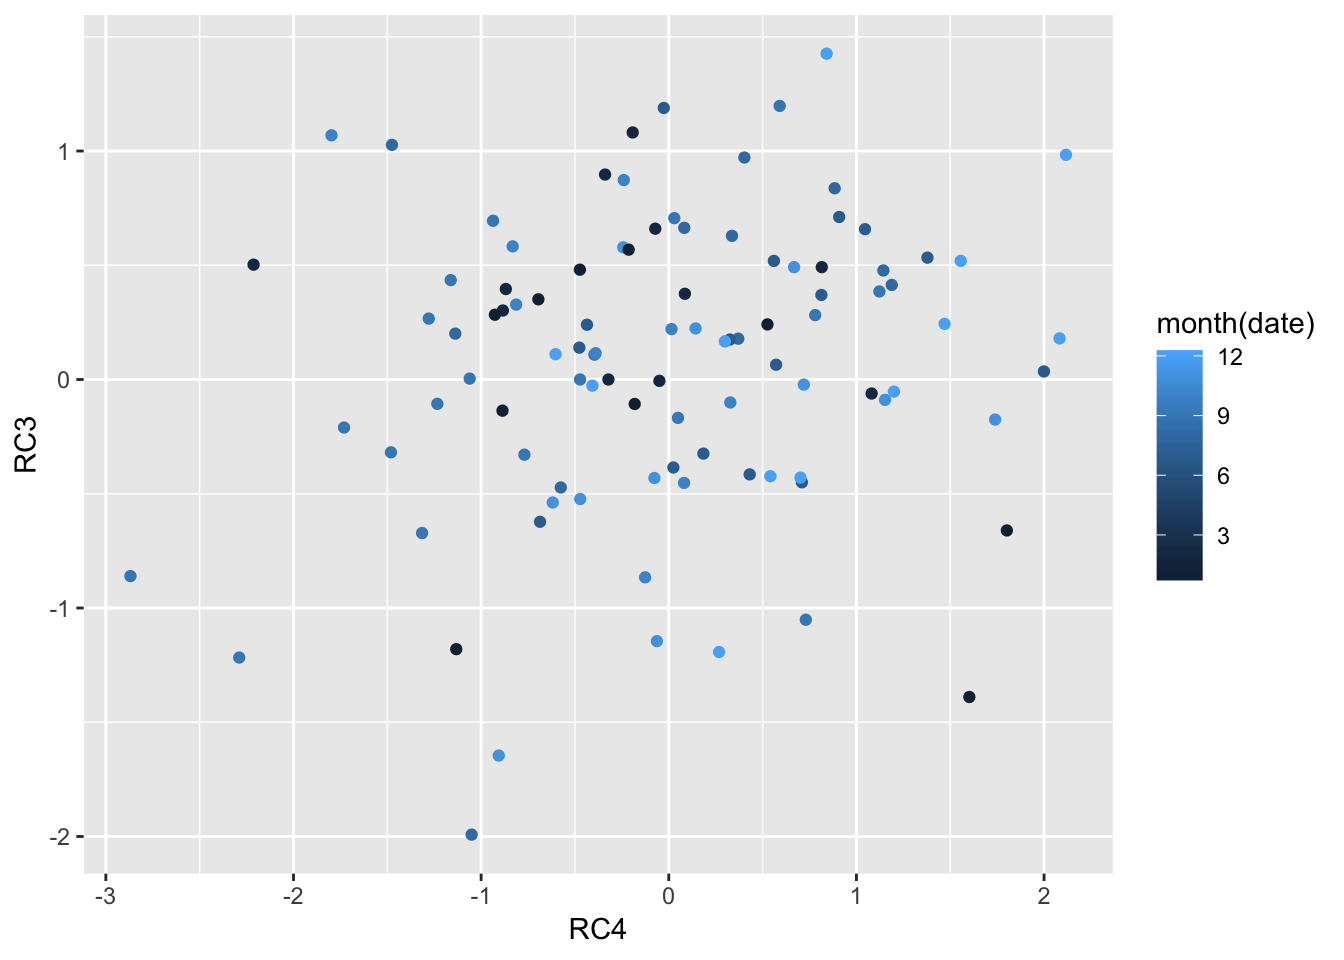
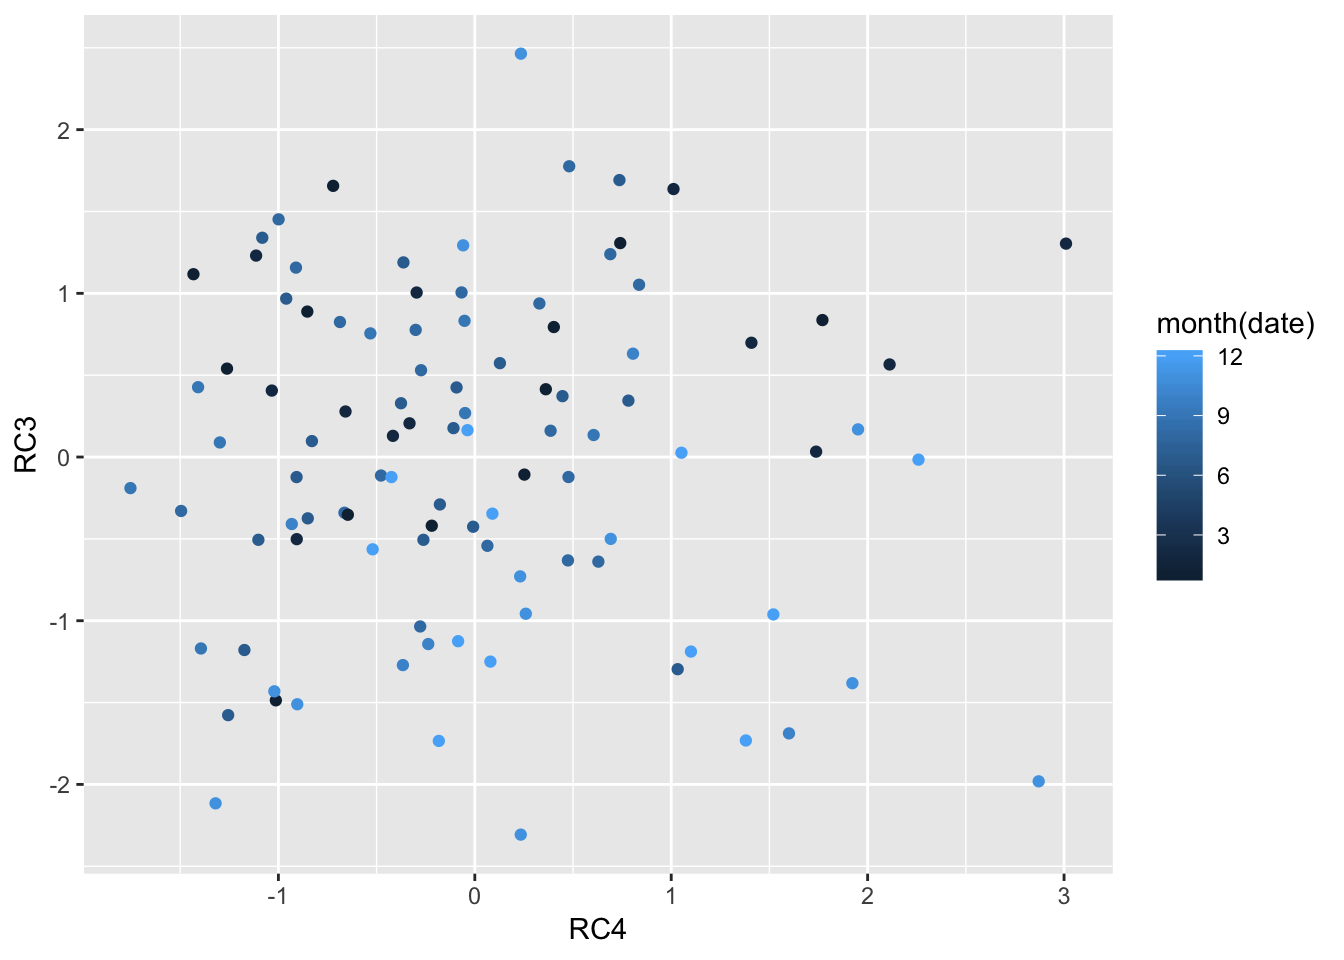
dimension reduction

diff --git a/_book/dimension-reduction.html b/_book/dimension-reduction.html
@@ -220,31 +220,31 @@ fa_daily_stats</code></pre></div>
 ## Call: principal(r = ., nfactors = 4, rotate = &quot;varimax&quot;)
 ## Standardized loadings (pattern matrix) based upon correlation matrix
 ##                        RC1   RC2   RC3   RC4   h2     u2 com
-## daily_rainfall_mm     0.98 -0.13 -0.10 -0.04 0.98 0.0190 1.1
-## 30min_rainfall_mm     0.97 -0.12 -0.11 -0.04 0.97 0.0324 1.1
-## 60min_rainfall_mm     0.98 -0.12 -0.11 -0.06 0.99 0.0140 1.1
-## 120min_rainfall_mm    0.93  0.01 -0.32 -0.06 0.97 0.0269 1.2
-## temp_mean_daily      -0.35  0.78  0.15 -0.04 0.76 0.2417 1.5
-## temp_daily_max       -0.13  0.23  0.85 -0.02 0.79 0.2084 1.2
-## temp_daily_min       -0.27 -0.04  0.86  0.02 0.82 0.1833 1.2
-## daily_tfc            -0.10 -0.05  0.00  0.99 1.00 0.0039 1.0
-## daily_wind_speed     -0.22  0.92 -0.13 -0.06 0.92 0.0792 1.2
-## daily_max_wind_speed  0.20  0.65  0.22  0.03 0.51 0.4881 1.4
+## daily_rainfall_mm     0.95 -0.22 -0.01 -0.06 0.96 0.0430 1.1
+## 30min_rainfall_mm     0.97 -0.17  0.01 -0.04 0.98 0.0207 1.1
+## 60min_rainfall_mm     0.98 -0.18  0.00 -0.07 0.99 0.0099 1.1
+## 120min_rainfall_mm    0.97 -0.19  0.00 -0.07 0.99 0.0140 1.1
+## temp_mean_daily      -0.21  0.92  0.12 -0.07 0.91 0.0862 1.1
+## temp_daily_max       -0.13  0.81  0.01  0.13 0.69 0.3144 1.1
+## temp_daily_min       -0.54  0.70  0.14 -0.04 0.80 0.2012 2.0
+## daily_tfc            -0.11  0.03 -0.02  0.99 0.99 0.0142 1.0
+## daily_wind_speed     -0.14  0.56  0.67 -0.03 0.79 0.2147 2.0
+## daily_max_wind_speed  0.07  0.00  0.94  0.00 0.88 0.1161 1.0
 ## 
 ##                        RC1  RC2  RC3  RC4
-## SS loadings           4.02 1.99 1.69 1.00
-## Proportion Var        0.40 0.20 0.17 0.10
-## Cumulative Var        0.40 0.60 0.77 0.87
-## Proportion Explained  0.46 0.23 0.19 0.11
-## Cumulative Proportion 0.46 0.69 0.89 1.00
+## SS loadings           4.14 2.45 1.36 1.01
+## Proportion Var        0.41 0.24 0.14 0.10
+## Cumulative Var        0.41 0.66 0.80 0.90
+## Proportion Explained  0.46 0.27 0.15 0.11
+## Cumulative Proportion 0.46 0.73 0.89 1.00
 ## 
-## Mean item complexity =  1.2
+## Mean item complexity =  1.3
 ## Test of the hypothesis that 4 components are sufficient.
 ## 
-## The root mean square of the residuals (RMSR) is  0.06 
-##  with the empirical chi square  35.88  with prob &lt;  0.00018 
+## The root mean square of the residuals (RMSR) is  0.05 
+##  with the empirical chi square  23.33  with prob &lt;  0.016 
 ## 
-## Fit based upon off diagonal values = 0.98</code></pre>
+## Fit based upon off diagonal values = 0.99</code></pre>
 <div class="sourceCode"><pre class="sourceCode r"><code class="sourceCode r">fa_daily_stats[[<span class="st">&#39;loadings&#39;</span>]] <span class="op">%&gt;%</span><span class="st"> </span>
 <span class="st">  </span><span class="kw">unclass</span>() <span class="op">%&gt;%</span><span class="st"> </span>
 <span class="st">  </span><span class="kw">as_tibble</span>(<span class="dt">rownames =</span> <span class="st">&quot;date&quot;</span>) <span class="op">%&gt;%</span>
@@ -257,7 +257,6 @@ fa_daily_stats</code></pre></div>
 <span class="st">  </span><span class="kw">unclass</span>() <span class="op">%&gt;%</span><span class="st"> </span>
 <span class="st">  </span><span class="kw">as_tibble</span>(<span class="dt">rownames =</span> <span class="st">&quot;date&quot;</span>) <span class="op">%&gt;%</span>
 <span class="st">  </span><span class="kw">ggplot</span>(<span class="kw">aes</span>(<span class="dt">x =</span> RC4, <span class="dt">y =</span> RC3)) <span class="op">+</span><span class="st"> </span><span class="kw">geom_point</span>(<span class="kw">aes</span>(<span class="dt">colour =</span> <span class="kw">month</span>(date)))</code></pre></div>
-<pre><code>## Warning: Removed 1 rows containing missing values (geom_point).</code></pre>
 <p><img src="bookdown-demo_files/figure-html/unnamed-chunk-15-1.png" width="672" /></p>
 </div>
 <div id="hourly-traffic-weather-data-1" class="section level3 unnumbered">
@@ -272,32 +271,32 @@ fa_hourly_stats</code></pre></div>
 <pre><code>## Principal Components Analysis
 ## Call: principal(r = ., nfactors = 4, rotate = &quot;varimax&quot;)
 ## Standardized loadings (pattern matrix) based upon correlation matrix
-##               RC1   RC2   RC4   RC3   h2    u2 com
-## temp         0.98  0.01 -0.09  0.02 0.96 0.037 1.0
-## temp_min     0.94  0.03 -0.01  0.01 0.88 0.123 1.0
-## temp_max     0.94 -0.01 -0.16  0.02 0.91 0.086 1.1
-## pressure    -0.09  0.01  0.96 -0.05 0.93 0.074 1.0
-## humidity    -0.88  0.05  0.15 -0.07 0.80 0.198 1.1
-## wind_speed   0.71 -0.07  0.18 -0.20 0.59 0.414 1.3
-## wind_deg    -0.01  0.04 -0.04  0.98 0.96 0.044 1.0
-## rainfall_mm -0.12  0.53  0.21  0.16 0.36 0.641 1.6
-## total_tfc    0.00  0.90 -0.03 -0.02 0.81 0.190 1.0
-## hour         0.08  0.89 -0.13 -0.06 0.82 0.185 1.1
+##               RC1   RC2   RC3   RC4   h2    u2 com
+## temp         0.97 -0.03  0.01 -0.10 0.96 0.038 1.0
+## temp_min     0.93 -0.05  0.05 -0.01 0.87 0.127 1.0
+## temp_max     0.95 -0.01 -0.01 -0.15 0.93 0.067 1.0
+## pressure    -0.12 -0.01  0.02  0.96 0.94 0.062 1.0
+## humidity    -0.89  0.04  0.04  0.18 0.83 0.175 1.1
+## wind_speed   0.63 -0.08 -0.12  0.19 0.45 0.551 1.3
+## wind_deg     0.10 -0.14  0.75  0.13 0.61 0.387 1.2
+## rainfall_mm -0.16  0.10  0.76 -0.11 0.63 0.370 1.2
+## total_tfc   -0.03  0.93  0.04 -0.03 0.88 0.124 1.0
+## hour        -0.09  0.93 -0.09  0.01 0.88 0.124 1.0
 ## 
-##                        RC1  RC2  RC4  RC3
-## SS loadings           4.03 1.88 1.07 1.03
-## Proportion Var        0.40 0.19 0.11 0.10
-## Cumulative Var        0.40 0.59 0.70 0.80
-## Proportion Explained  0.50 0.24 0.13 0.13
-## Cumulative Proportion 0.50 0.74 0.87 1.00
+##                        RC1  RC2  RC3  RC4
+## SS loadings           3.97 1.78 1.18 1.05
+## Proportion Var        0.40 0.18 0.12 0.11
+## Cumulative Var        0.40 0.57 0.69 0.80
+## Proportion Explained  0.50 0.22 0.15 0.13
+## Cumulative Proportion 0.50 0.72 0.87 1.00
 ## 
 ## Mean item complexity =  1.1
 ## Test of the hypothesis that 4 components are sufficient.
 ## 
-## The root mean square of the residuals (RMSR) is  0.07 
-##  with the empirical chi square  38.5  with prob &lt;  6.4e-05 
+## The root mean square of the residuals (RMSR) is  0.08 
+##  with the empirical chi square  52.13  with prob &lt;  2.6e-07 
 ## 
-## Fit based upon off diagonal values = 0.97</code></pre>
+## Fit based upon off diagonal values = 0.96</code></pre>
 <div class="sourceCode"><pre class="sourceCode r"><code class="sourceCode r">fa_hourly_stats[[<span class="st">&#39;loadings&#39;</span>]] <span class="op">%&gt;%</span><span class="st"> </span>
 <span class="st">  </span><span class="kw">unclass</span>() <span class="op">%&gt;%</span><span class="st"> </span>
 <span class="st">  </span><span class="kw">as_tibble</span>(<span class="dt">rownames =</span> <span class="st">&quot;local_time&quot;</span>) <span class="op">%&gt;%</span>
